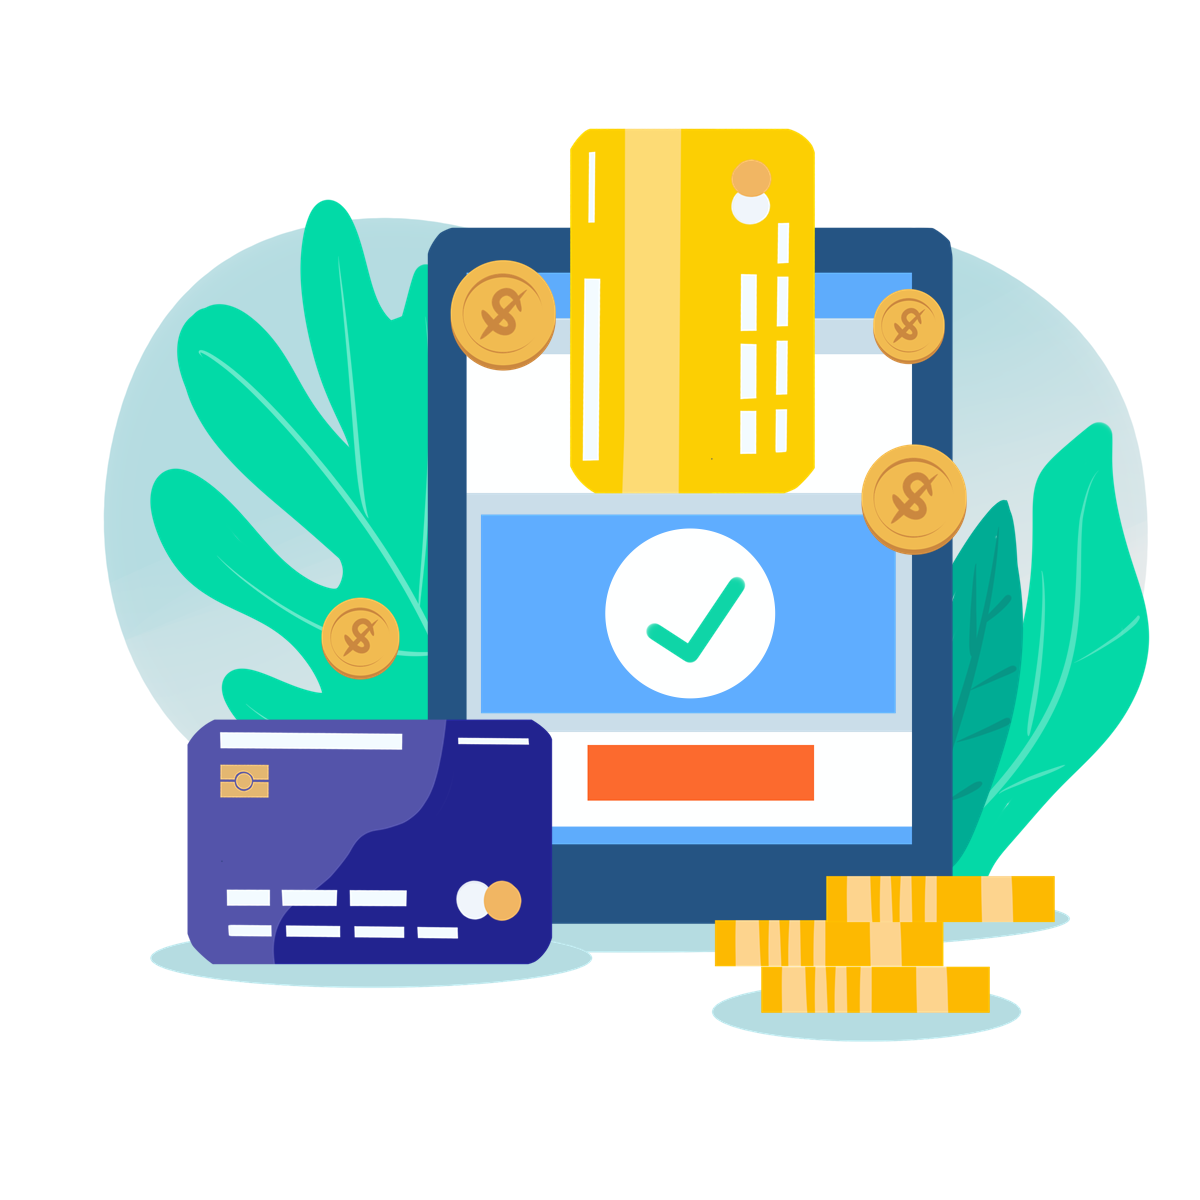
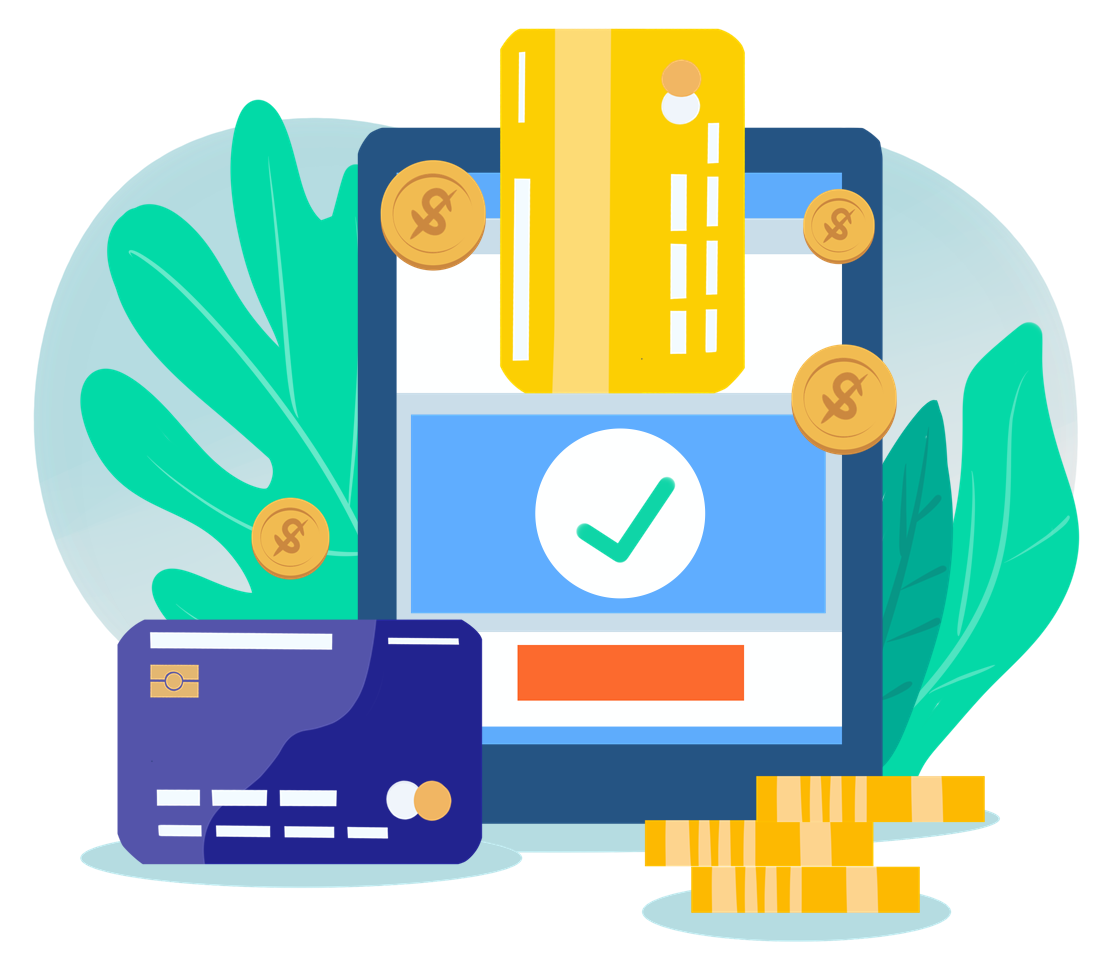
Image Widget

diff --git a/lib/main.dart b/lib/main.dart
@@ -29,8 +29,10 @@ class MyApp extends StatelessWidget {
           ],
         ),
         body: SafeArea(
-          child: Text('Hello World'),
-        ),
+            child: Image(
+          image: AssetImage('assets/images/payments.png'),
+          height: 300,
+        )),
       ),
     );
   }
